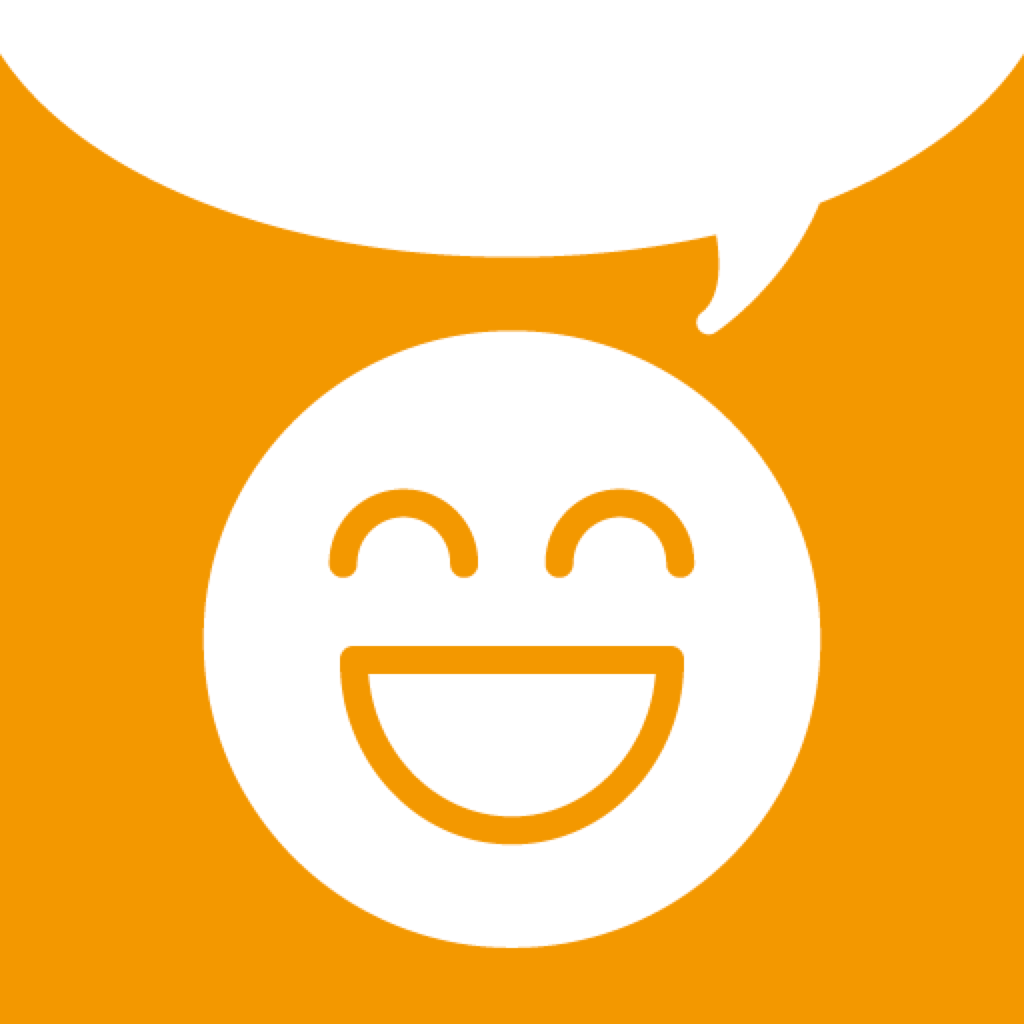
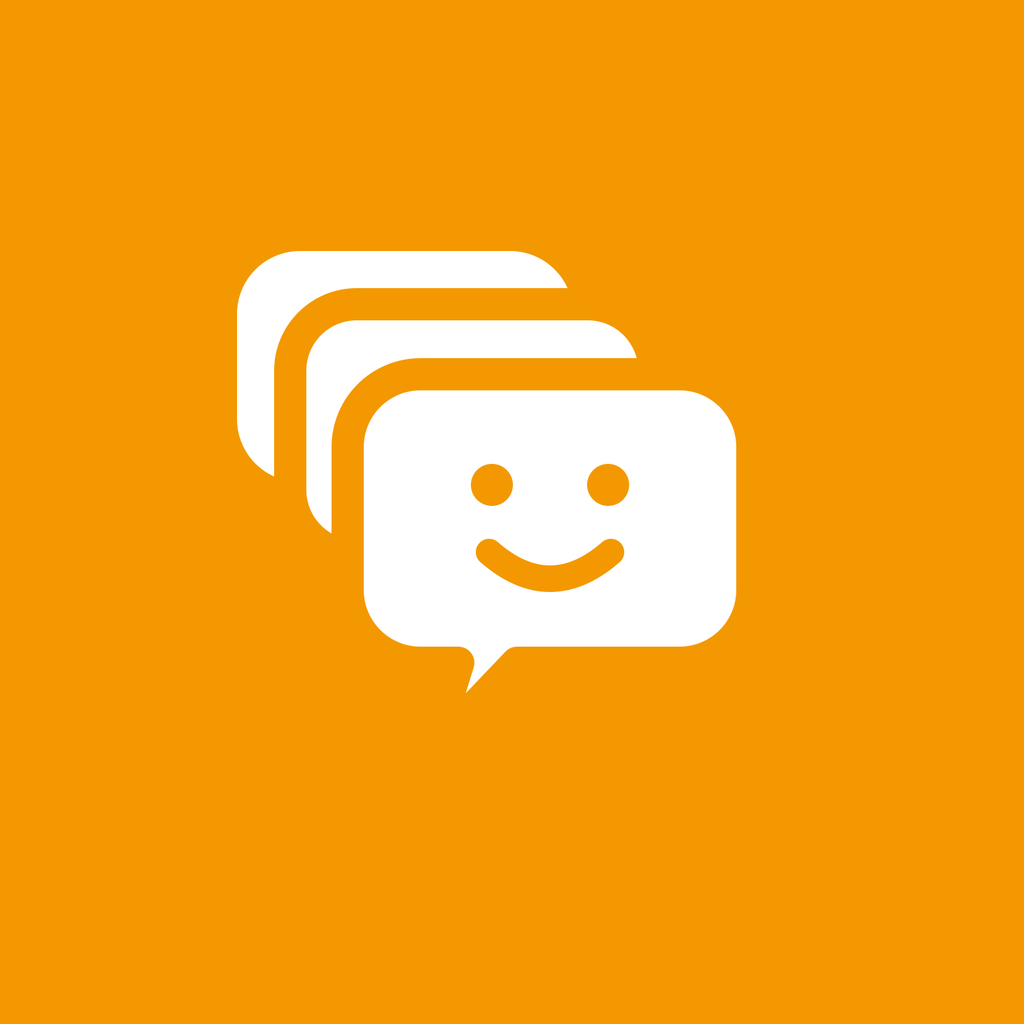
:art: アプリアイコンを刷新し、Androidのアダプティブアイコンの欠けを修正
実寸とマスクに落として確認したところ、Androidで実害が出ていた。
adaptive-foreground.png が icon-1024.png とバイト単位で同一(差分0)だった。
アダプティブアイコンは108dpの前景のうち中央72dp(66.7%)しか表示されないので、
全面に描いた画像を渡すとランチャーで外周が切り落とされる。実際、吹き出しが
ほぼ消えて笑顔が円からはみ出していた。iOS側も吹き出しが枠を上にはみ出しており、
角丸マスクで上端が削られて「切れた白い塊」になっていた。

adaptiveIcon.backgroundColor と notification_icon_color に入っていた #E0AEE7
(淡い紫)も、ブランドオレンジでもアプリのダークテーマでもない値だった。
前景が不透明だったためアイコン側では見えていなかったが、通知アイコンの色は
ステータスバーで実際に紫に着色されていた。両方 #F39800 に揃えた。

アートは4案をSVGで描いて48pxまで落として比較し、左上へ後退する重なり3枚+笑顔を
採用した。69サイト横断と話題検知というアプリの本質をそのまま形にでき、48pxでも
重なりのシルエットが残る。既存の笑顔を残しているので置き換えではなく発展になる。
左右対称に並べる案は吹き出しが耳に見えて猫の顔と読めたため落とした。

原本はSVGにして scripts/build-icons.sh で全解像度を書き出す。1枚のアートから
iOS用マスター・アダプティブ前景・通知アイコンをそれぞれ別の余白ルールで出す必要が
あり、手作業だと必ずずれるため。

app.config.ts の「android/はコミット済みでprebuildが再実行されない」という
コメントは古い。android/ と ios/ は .gitignore 済みの prebuild 生成物なので、
AndroidManifest.xml を直接編集しても次のビルドで消える。逆向きの地雷なので直した。

未確認: 実機/エミュレータでのホーム画面とステータスバーの目視。

diff --git a/app.config.ts b/app.config.ts
@@ -138,13 +138,17 @@ const config: ExpoConfig = {
     // Play製品版の最新vc44より大きい値。リリースごとに手動で+1する(docs/RELEASE.md参照)。
     versionCode: 57,
     ...(hasFirebaseConfig ? { googleServicesFile: GOOGLE_SERVICES_ANDROID } : {}),
+    // ⚠ foregroundImage は「中央66.7%しか表示されない」前提で作ること。
+    // 全面に描いたものを渡すとランチャーで外周が切り落とされる(2026-08まで実際にそうで、
+    // icon-1024.png と同一の画像が入っていたため吹き出しがほぼ消えていた)。
+    // 差し替えるときは ./scripts/build-icons.sh を通すこと
     adaptiveIcon: {
       foregroundImage: './assets/app/adaptive-foreground.png',
-      backgroundColor: '#E0AEE7',
+      backgroundColor: '#F39800',
     },
     // App Links(/.well-known/assetlinks.jsonは配信済み)。
-    // 注意: android/はコミット済みでprebuildが再実行されないため、実際の反映は
-    // AndroidManifest.xmlの直編集が正。ここは将来prebuildし直す時の正本として併記
+    // android/ は .gitignore 済みの prebuild 生成物(Expo CNG)なので、ここが唯一の正本。
+    // AndroidManifest.xml を直接編集しても次のビルドで消える
     intentFilters: [
       {
         action: 'VIEW',
@@ -161,9 +165,9 @@ const config: ExpoConfig = {
       'expo-notifications',
       {
         // Androidのステータスバー通知アイコンは白シルエット必須(カラー画像だと白四角になる)。
-        // adaptive-foregroundの白背景を透明化して生成した(吹き出し+笑顔)
+        // assets/app/design/notification-source.svg から生成(目・口はalphaを抜いて表現)
         icon: './assets/app/notification-icon.png',
-        color: '#E0AEE7',
+        color: '#F39800',
       },
     ],
     // Firebase設定ファイルがあるときのみネイティブ組み込みを行う(analyticsはapp同梱のためplugin不要)

diff --git a/docs/ASO-SCREENSHOTS.md b/docs/ASO-SCREENSHOTS.md
@@ -188,80 +188,105 @@ GROWTH-PLAN の目標は新規インストール 8件/月 → 300件/月。
 
 ---
 
-# アプリアイコンの最適化
+# アプリアイコンの最適化（2026-08-20 実施）
 
-## 現状評価（実寸で確認した結果）
+## 実寸で確認してわかったこと
 
-現行アイコンは**オレンジ地に白い笑顔＋吹き出し**（`assets/app/icon-1024.png`、ブランドオレンジ `#F39800`）。
-これを検索結果の実寸に落として確認した。
+旧アイコンは**オレンジ地に白い笑顔＋吹き出し**（ブランドオレンジ `#F39800`）。
+これを実際のマスクとサイズに落として確認した結果、**2つの実害**が見つかった。
 
-| サイズ | 見え方 |
+![before / after](assets/icon-before-after.png)
+
+### 1. Android のアダプティブアイコンが壊れていた（実バグ）
+
+`assets/app/adaptive-foreground.png` が `icon-1024.png` と**バイト単位で同一**だった
+（`magick compare -metric AE` の差分が 0）。
+
+Android のアダプティブアイコンは 108dp の前景のうち**中央 72dp（66.7%）しか表示されない**。
+全面に描いた画像を前景として渡していたため、ランチャーでは外周が切り落とされ、
+**吹き出しがほぼ消え、笑顔が円からはみ出す**状態で表示されていた（上図「Android launcher / before」）。
+
+さらに `adaptiveIcon.backgroundColor` は `#E0AEE7`（淡い紫）で、
+ブランドオレンジでもアプリのダークテーマでもない値が入っていた。前景が不透明だったため
+表示上は見えていなかったが、通知アイコンの色 `notification_icon_color` にも同じ紫が使われており、
+こちらは**ステータスバーで実際に紫に着色されていた**。
+
+### 2. iOS でも吹き出しがマスクに切られていた
+
+吹き出しが 1024px の枠を上にはみ出していたため、iOS の角丸マスク（半径約 229px）で上端が削られ、
+「切れた白い塊」になっていた（上図「iOS mask / before」）。
+
+### 3. 48px でカテゴリが伝わらない
+
+Play の検索結果相当まで落とすと、残るのは笑顔だけになる。
+笑顔＋吹き出しは**チャット／メッセージアプリ**に見え、2ch/5ch まとめのリーダーだと分かる手がかりがない。
+
+## 4案を実際に描いて比較した
+
+方針だけで決めず、SVG で描いて 48px まで落として突き合わせた。
+
+| 案 | 内容 | 48px での結果 |
+|---|---|---|
+| A | 吹き出しを左右対称に2枚配置＋笑顔 | 左右の吹き出しが**耳に見えて猫の顔**と読める。不採用 |
+| B | 吹き出し1枚＋書き込み3本 | **潰れずに読めた**。ただし SMS / メッセージ系の汎用アイコンに酷似。不採用 |
+| F | B＋背面に1枚 | 同上。チャットアプリの読みから抜けられない |
+| **A2** | **左上へ後退する重なり3枚＋笑顔（採用）** | **重なりが残り、笑顔も判別できる** |
+
+> 補足: 事前には「案B は 48px で線が潰れる」と見ていたが、**実際には潰れなかった**。
+> 落選理由は可読性ではなく、汎用のメッセージアプリと見分けがつかないこと。
+
+### A2 を選んだ理由
+
+- **アプリの本質をそのまま形にしている** — 69サイトを横断して同じ話題を1か所に集める。
+  1.49 で入れた話題検知とも符合する
+- **既存の笑顔を残している** — 置き換えではなく発展。インストール済みユーザーが見失わない
+- **48px で成立する** — 重なりのシルエットが残る
+- **どのマスクでも切れない** — iOS の角丸、Android の円・角丸のいずれでも枠内に収まる
+
+なお、アイコン変更のリスクは今なら実質ゼロだった。Play Console の実測で
+月間アクティブ 1 台・インストール 2 件しかない。失うブランド認知が無いうちに切り替えた。
+
+## 実装
+
+原本は SVG で、そこから全解像度を書き出す。
+
+| ファイル | 役割 |
 |---|---|
-| 1024px（提出用） | 笑顔と吹き出しが明瞭。意図どおり |
-| 96px（Play 検索結果相当） | 笑顔は識別できる。**吹き出しは形が曖昧になる** |
-| 48px（一覧・通知相当） | **吹き出しが潰れて白い塊になる**。笑顔だけが残る |
+| `assets/app/design/icon-source.svg` | アイコン原本 |
+| `assets/app/design/notification-source.svg` | 通知アイコン原本（目・口は alpha を抜いて表現） |
+| `scripts/build-icons.sh` | 上記2つから全 PNG / WebP を生成 |
 
-### 問題は3つ
+```bash
+./scripts/build-icons.sh   # 要: brew install librsvg imagemagick
+```
 
-1. **カテゴリが伝わらない** — 笑顔＋吹き出しは「チャット／メッセージアプリ」に見える。
-   2ch/5chまとめのリーダーだと分かる手がかりがない。検索結果で競合と並んだとき、
-   何のアプリか判別できないのは致命的
-2. **吹き出しが上端で切れている** — 1024の枠からはみ出しており、意図的な断ち切りに見えにくい。
-   小さくすると「切れた白い塊」になる
-3. **情報量が笑顔1つ** — 記憶に残るフックがない
+守っている制約:
 
-### 一方で維持すべきもの
+- **要素は2つまで**（重なり・笑顔）。3つ以上は 48px で潰れる
+- **線幅は 1024px 時に 46px 以上**。これ以下だと白同士がつながって塊になる
+- **アダプティブ前景は 70% に縮めて中央配置**（`ADAPTIVE_SCALE`）。全面に描かない
+- **背景は単色オレンジ**。グラデーションは小サイズで濁る
+- 通知アイコンは Android が alpha しか見ないため、**目・口・重なりの境目はすべて透明**
 
-- **オレンジ `#F39800`** — まとめ系アプリは赤・青・黒が多く、暖色は棚で目立つ。差別化として機能している
-- **親しみやすさ** — 2ch/5chまとめという題材の硬さ・とっつきにくさを和らげている
+`android/` と `ios/` は `.gitignore` 済みの prebuild 生成物（Expo CNG）なので、
+正本は `assets/app/*.png`。ビルドのたびにそこから作り直される。
+`build-icons.sh` が `android/` 配下も更新するのは、prebuild を挟まずに
+`npm run android` で確認したいときのため。
 
-## いま変えるべき理由
+## 残っている確認
 
-アイコン変更は通常「既存ユーザーが見失う」リスクを伴うが、**現在の実測値ではそのリスクがほぼ無い**。
+- [ ] 実機／エミュレータでホーム画面のアイコンを目視（iOS シミュレータと Android エミュレータの両方）
+- [ ] 通知を1件出してステータスバーのアイコンが白いシルエットで出ること（紫の着色が消えたこと）
+- [ ] スプラッシュ画面の見え方
+- [ ] ストア掲載アイコンの差し替え（Play Console / App Store Connect）。**次のバージョン提出時に併せて行う**
 
-- 1か月間のアクティブデバイス数: **1**
-- インストール: **2件**（Play Console 実測）
+## 8/22 に scenario.com で別案も見るなら
 
-失うものが無い。むしろ新規獲得（GROWTH-PLAN の目標: 8件/月 → 300件/月）に振り切れる、
-数少ないタイミングにある。
+採用案で確定しているので必須ではない。方向性を広げたいときだけ使う。
 
-## 方向性（推奨は A）
-
-### A. 複数の吹き出しが1つに集まる（推奨）
-
-アプリの本質「**69サイトを横断して、同じ話題を1か所に集める**」をそのまま形にする。
-1.49で実装した話題検知（複数サイトが同じスレをまとめたら検知）とも符合する。
-笑顔を1つ残せば親しみも保てる。
-
-- 大小の吹き出し2〜3個が中央に収束
-- いちばん手前の吹き出しに小さく笑顔
-- 48pxでも「複数のかたまりが1つに寄っている」シルエットは残る
-
-### B. 吹き出し＋スレッドの線
-
-吹き出しの中に横線を数本入れて「書き込みの積み重なり＝スレッド」を示す。
-掲示板らしさは出るが、48pxで線が潰れる懸念がある。
-
-### C. 笑顔＋音波（読み上げ推し）
-
-スクリーンショット1枚目と揃うが、アイコンに機能を詰めると小サイズで破綻しやすい。
-アイコンは「何のアプリか」、スクショは「何ができるか」と役割を分けたい。
-
-## デザイン制約（小サイズで成立させる条件）
-
-- **要素は2つまで**。3つ以上入れると48pxで潰れる
-- **線は太く**（1024pxで最低40px相当）。現行の笑顔の線は細めで、縮小に弱い
-- **枠内に収める**。断ち切りは小サイズで事故になる
-- **背景は単色オレンジのまま**。グラデーションは小サイズで濁る
-- iOS は角丸マスクが自動で掛かる。**四隅から10%は重要要素を置かない**
-
----
-
-## scenario.com へのプロンプト（アイコン）
-
-**注意: 生成結果をそのまま提出しない。** アプリアイコンは幾何学的な精度が要る。
-AIは曲線や対称性を崩すので、**方向性の探索**に使い、確定案はベクターで清書する
-（このリポジトリで SVG を書き起こせる）。
+**生成結果はそのまま提出しない。** アプリアイコンは左右対称・線幅の統一・角丸半径の統一といった
+幾何学的な精度が要る。AI はここを崩すので、**探索に留めて確定案は SVG で清書**し、
+必ず 48px に落として検証する。
 
 共通ネガティブプロンプト:
 
@@ -270,17 +295,7 @@ text, letters, words, japanese characters, numbers, watermark, signature, realis
 3d render, drop shadow, gradient background, thin lines, cluttered, multiple panels, border frame
 ```
 
-### 案A（推奨）: 集まる吹き出し
-
-```
-Flat vector app icon, solid warm orange #F39800 background, three white rounded speech bubbles
-of different sizes converging toward the center and slightly overlapping, the frontmost bubble
-carries a simple smiling face drawn with thick clean strokes, bold minimal geometry,
-generous margins, perfectly centered composition, high contrast, no gradient, no shadow,
-flat design, app store icon, square, crisp edges
-```
-
-### 案A': 集約をより強く（笑顔なし）
+集約をより強く出す方向（笑顔なし）:
 
 ```
 Flat vector app icon, solid warm orange #F39800 background, several white rounded speech bubbles
@@ -289,16 +304,7 @@ bold thick shapes, minimal, symmetrical, generous margins, no gradient, no shado
 flat design, app store icon, square, crisp edges
 ```
 
-### 案B: スレッドの積み重なり
-
-```
-Flat vector app icon, solid warm orange #F39800 background, one large white rounded speech bubble
-containing three short thick horizontal bars suggesting stacked posts, bold geometry,
-very thick strokes, minimal, centered, generous margins, no gradient, no shadow,
-flat design, app store icon, square, crisp edges
-```
-
-### 案C: 笑顔＋音波
+読み上げを出す方向:
 
 ```
 Flat vector app icon, solid warm orange #F39800 background, a white circular smiling face
@@ -307,20 +313,7 @@ suggesting sound, bold minimal geometry, centered, generous margins, no gradient
 flat design, app store icon, square, crisp edges
 ```
 
-## 確定までの進め方
-
-1. 8/22 に scenario.com で A / A' / B / C を各4〜8枚生成し、方向を決める
-2. 選んだ方向を **SVG で清書**（左右対称・線幅の統一・角丸半径の統一をコードで担保）
-3. **48px / 96px に縮小して検証**。ここで潰れたら要素を1つ減らす
-4. 書き出し
-   - `assets/app/icon-1024.png`（1024×1024・角丸なし・透過なし）
-   - `assets/app/adaptive-foreground.png`（Android アダプティブ。**内側66%に収める**）
-   - `assets/app/notification-icon.png`（Android 通知用。**白のシルエットのみ**）
-5. `app.config.ts` の参照は変更不要（同じパスを差し替える）
-6. ストア掲載のアイコンも別途差し替える（Play Console / App Store Connect）
-
-## 変更後に見る指標
+## 効果測定
 
 Play Console 「ストアのパフォーマンス」で、**ストア掲載ページの表示回数に対するインストール率**を
-差し替え前後で比較する。アイコンは検索結果でのタップ率（表示→訪問）に効くため、
-訪問数の変化も併せて見る。
+差し替え前後で比較する。アイコンは検索結果でのタップ率（表示→訪問）に効くため、訪問数の変化も併せて見る。
